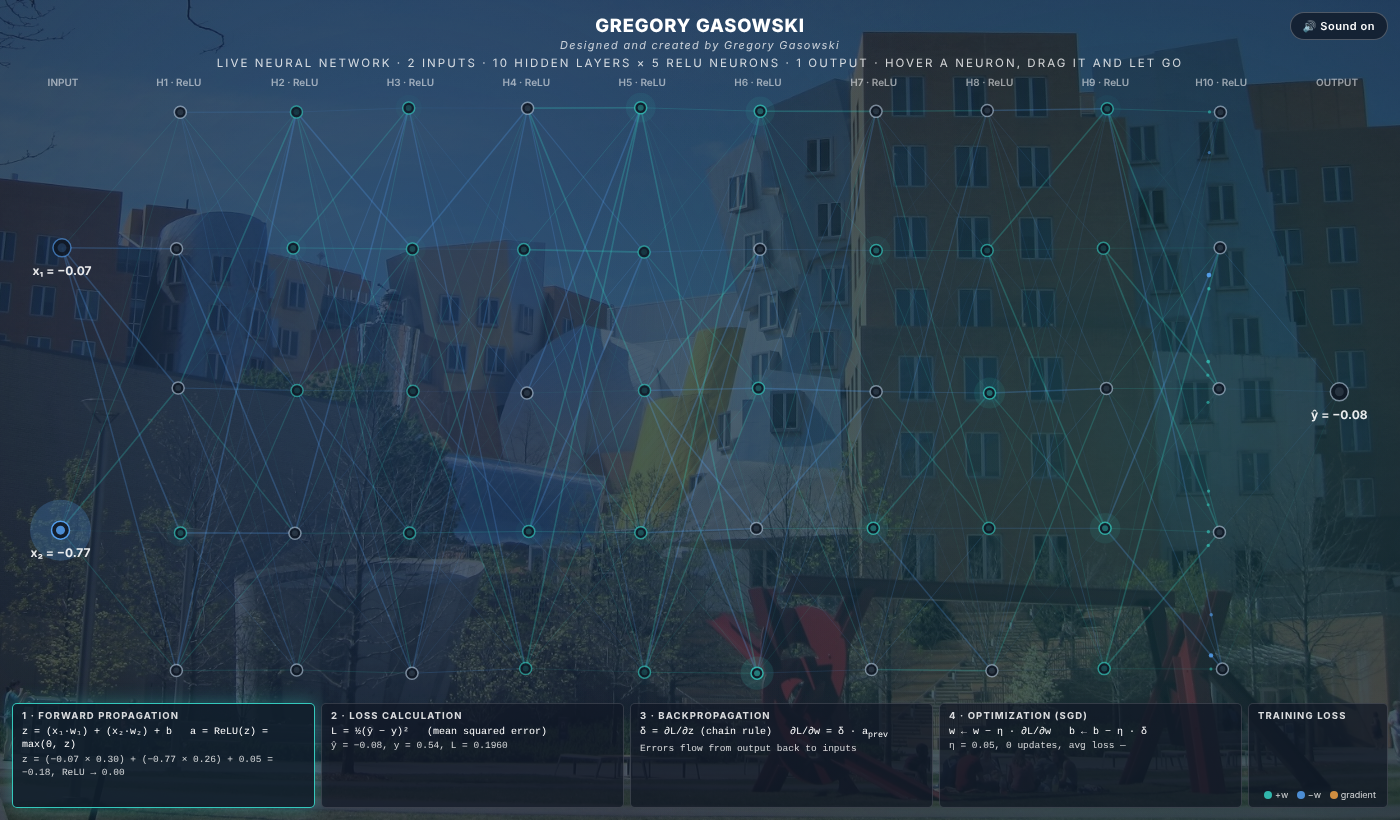
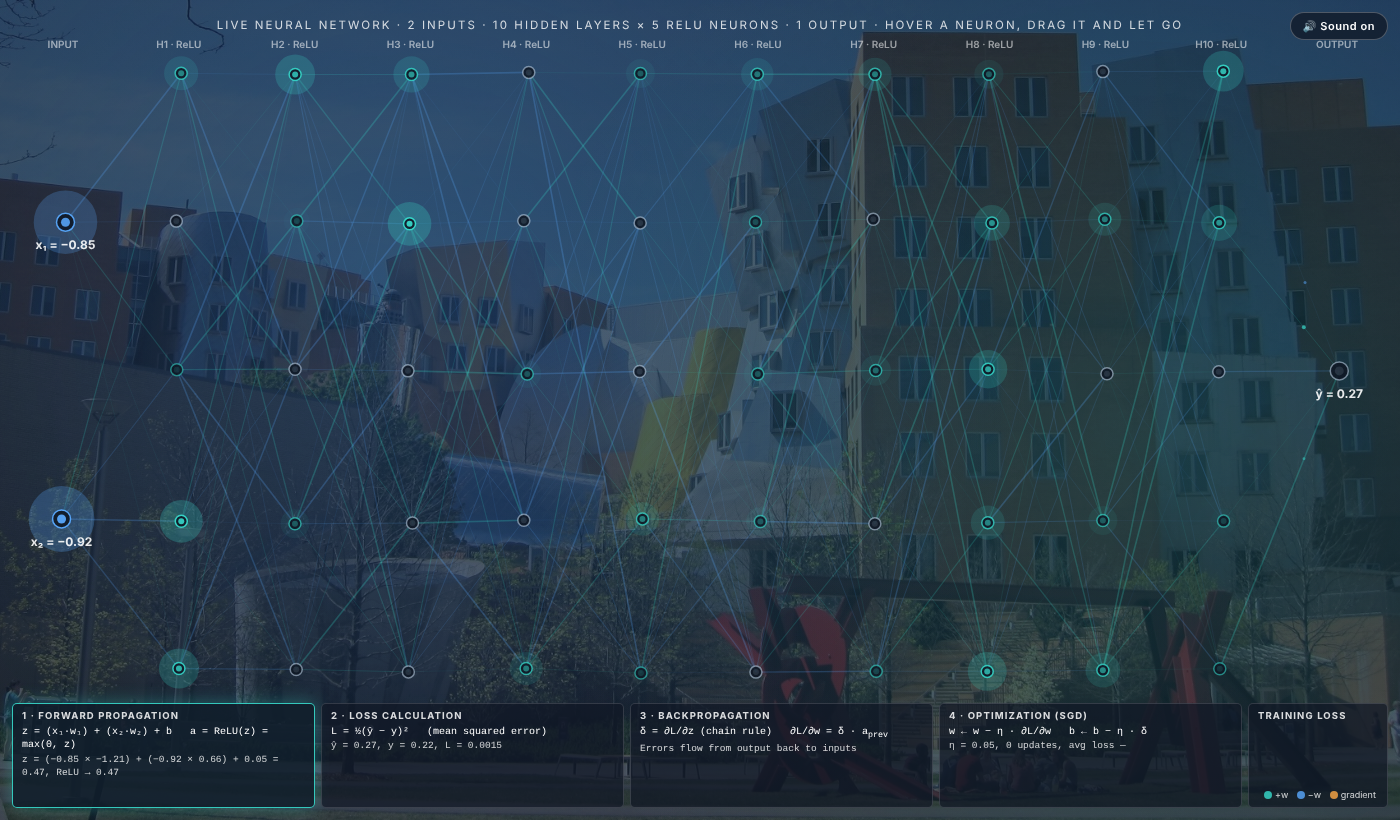
Add live demo link, MIT license and updated preview
Claude-Session: https://claude.ai/code/session_01XzF7TxyXbhBEiMY51Zj57R

diff --git a/index.html b/index.html
@@ -1,0 +1,12 @@
+<!DOCTYPE html>
+<html lang="en">
+<head>
+	<meta charset="utf-8" />
+	<title>Live neural network training animation</title>
+	<meta http-equiv="refresh" content="0; url=neural-network.html" />
+	<link rel="canonical" href="https://wavemx.github.io/live-neural-network/neural-network.html" />
+</head>
+<body>
+	<p>Opening the <a href="neural-network.html">live neural network training animation</a>.</p>
+</body>
+</html>

diff --git a/README.md b/README.md
@@ -2,6 +2,8 @@
 
 **Designed and created by Gregory Gasowski** · [gregorygasowski.github.io](https://gregorygasowski.github.io)
 
+### ▶ [Live demo: wavemx.github.io/live-neural-network/neural-network.html](https://wavemx.github.io/live-neural-network/neural-network.html)
+
 A neural network that trains live in the browser while you watch. Every forward pass, loss calculation, backpropagation step and weight update is real math, animated as it happens. Hover any neuron to see its actual calculation with the current numbers.
 
 ![Live neural network training animation](docs/preview.png)
@@ -19,7 +21,7 @@ A neural network that trains live in the browser while you watch. Every forward 
 
 ## Run it
 
-Download or clone the repository and open `neural-network.html` in any modern browser.
+Try the **[live demo](https://wavemx.github.io/live-neural-network/neural-network.html)**, or download or clone the repository and open `neural-network.html` in any modern browser.
 
 ```
 git clone https://github.com/wavemx/live-neural-network.git
@@ -33,6 +35,8 @@ git clone https://github.com/wavemx/live-neural-network.git
 | `neural-network.js` | The model, training, animation, interaction and sound |
 | `background.jpg` | Background photo |
 | `neural-network-explained.md` | Full explanation of every part, the math behind it, and the reasoning for each design choice |
+| `index.html` | Opens the demo when visiting the site root |
+| `LICENSE` | MIT License |
 
 ## How it works
 
@@ -41,6 +45,10 @@ See **[neural-network-explained.md](neural-network-explained.md)** for the confi
 ## Customize
 
 All settings are in the `CONFIG` object at the top of `neural-network.js`: number of layers and neurons, learning rate, animation speed, and the function the network learns.
+
+## License
+
+[MIT](LICENSE) © 2026 Gregory Gasowski. You are free to use, modify and share this project, as long as the copyright notice and license are kept, which credits the original author.
 
 ---
 
